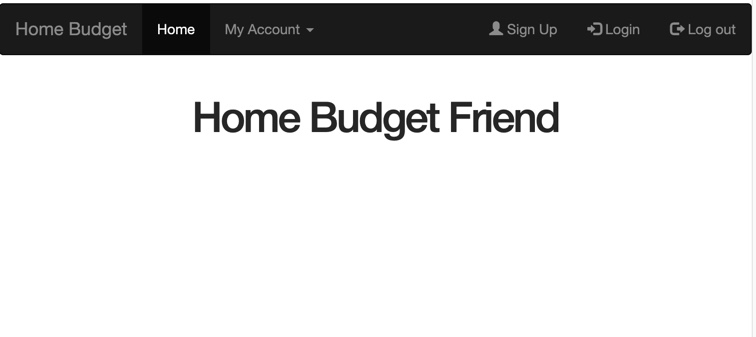
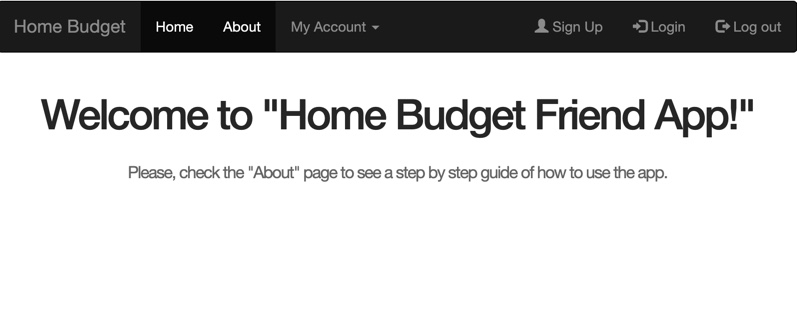
Wireframes: added About page

diff --git a/Wireframes.md b/Wireframes.md
@@ -10,10 +10,15 @@ Right-click & open in new window to see better!
 ![home](./assets/home.jpg)
 
 ### No-Authorization require
-- Will only see "Home" and "About" pages, which will explain how to use the app and why it is needed.
+- Will only see "Home" and "About" pages.
+
+## About page
+- Will explain step by step how to use the app and why it is needed.
+
+![about](./assets/about.jpg)
 
 ### Authorization require
-- Will allow the user to register. Got to "Register" page if first time user. 
+- Will allow the user to register. Got to "Sign Up" page if first time user. 
 - If the user has already an account, allow it to login and go to its "Account" page.
 
 ## Login / Registration flow
